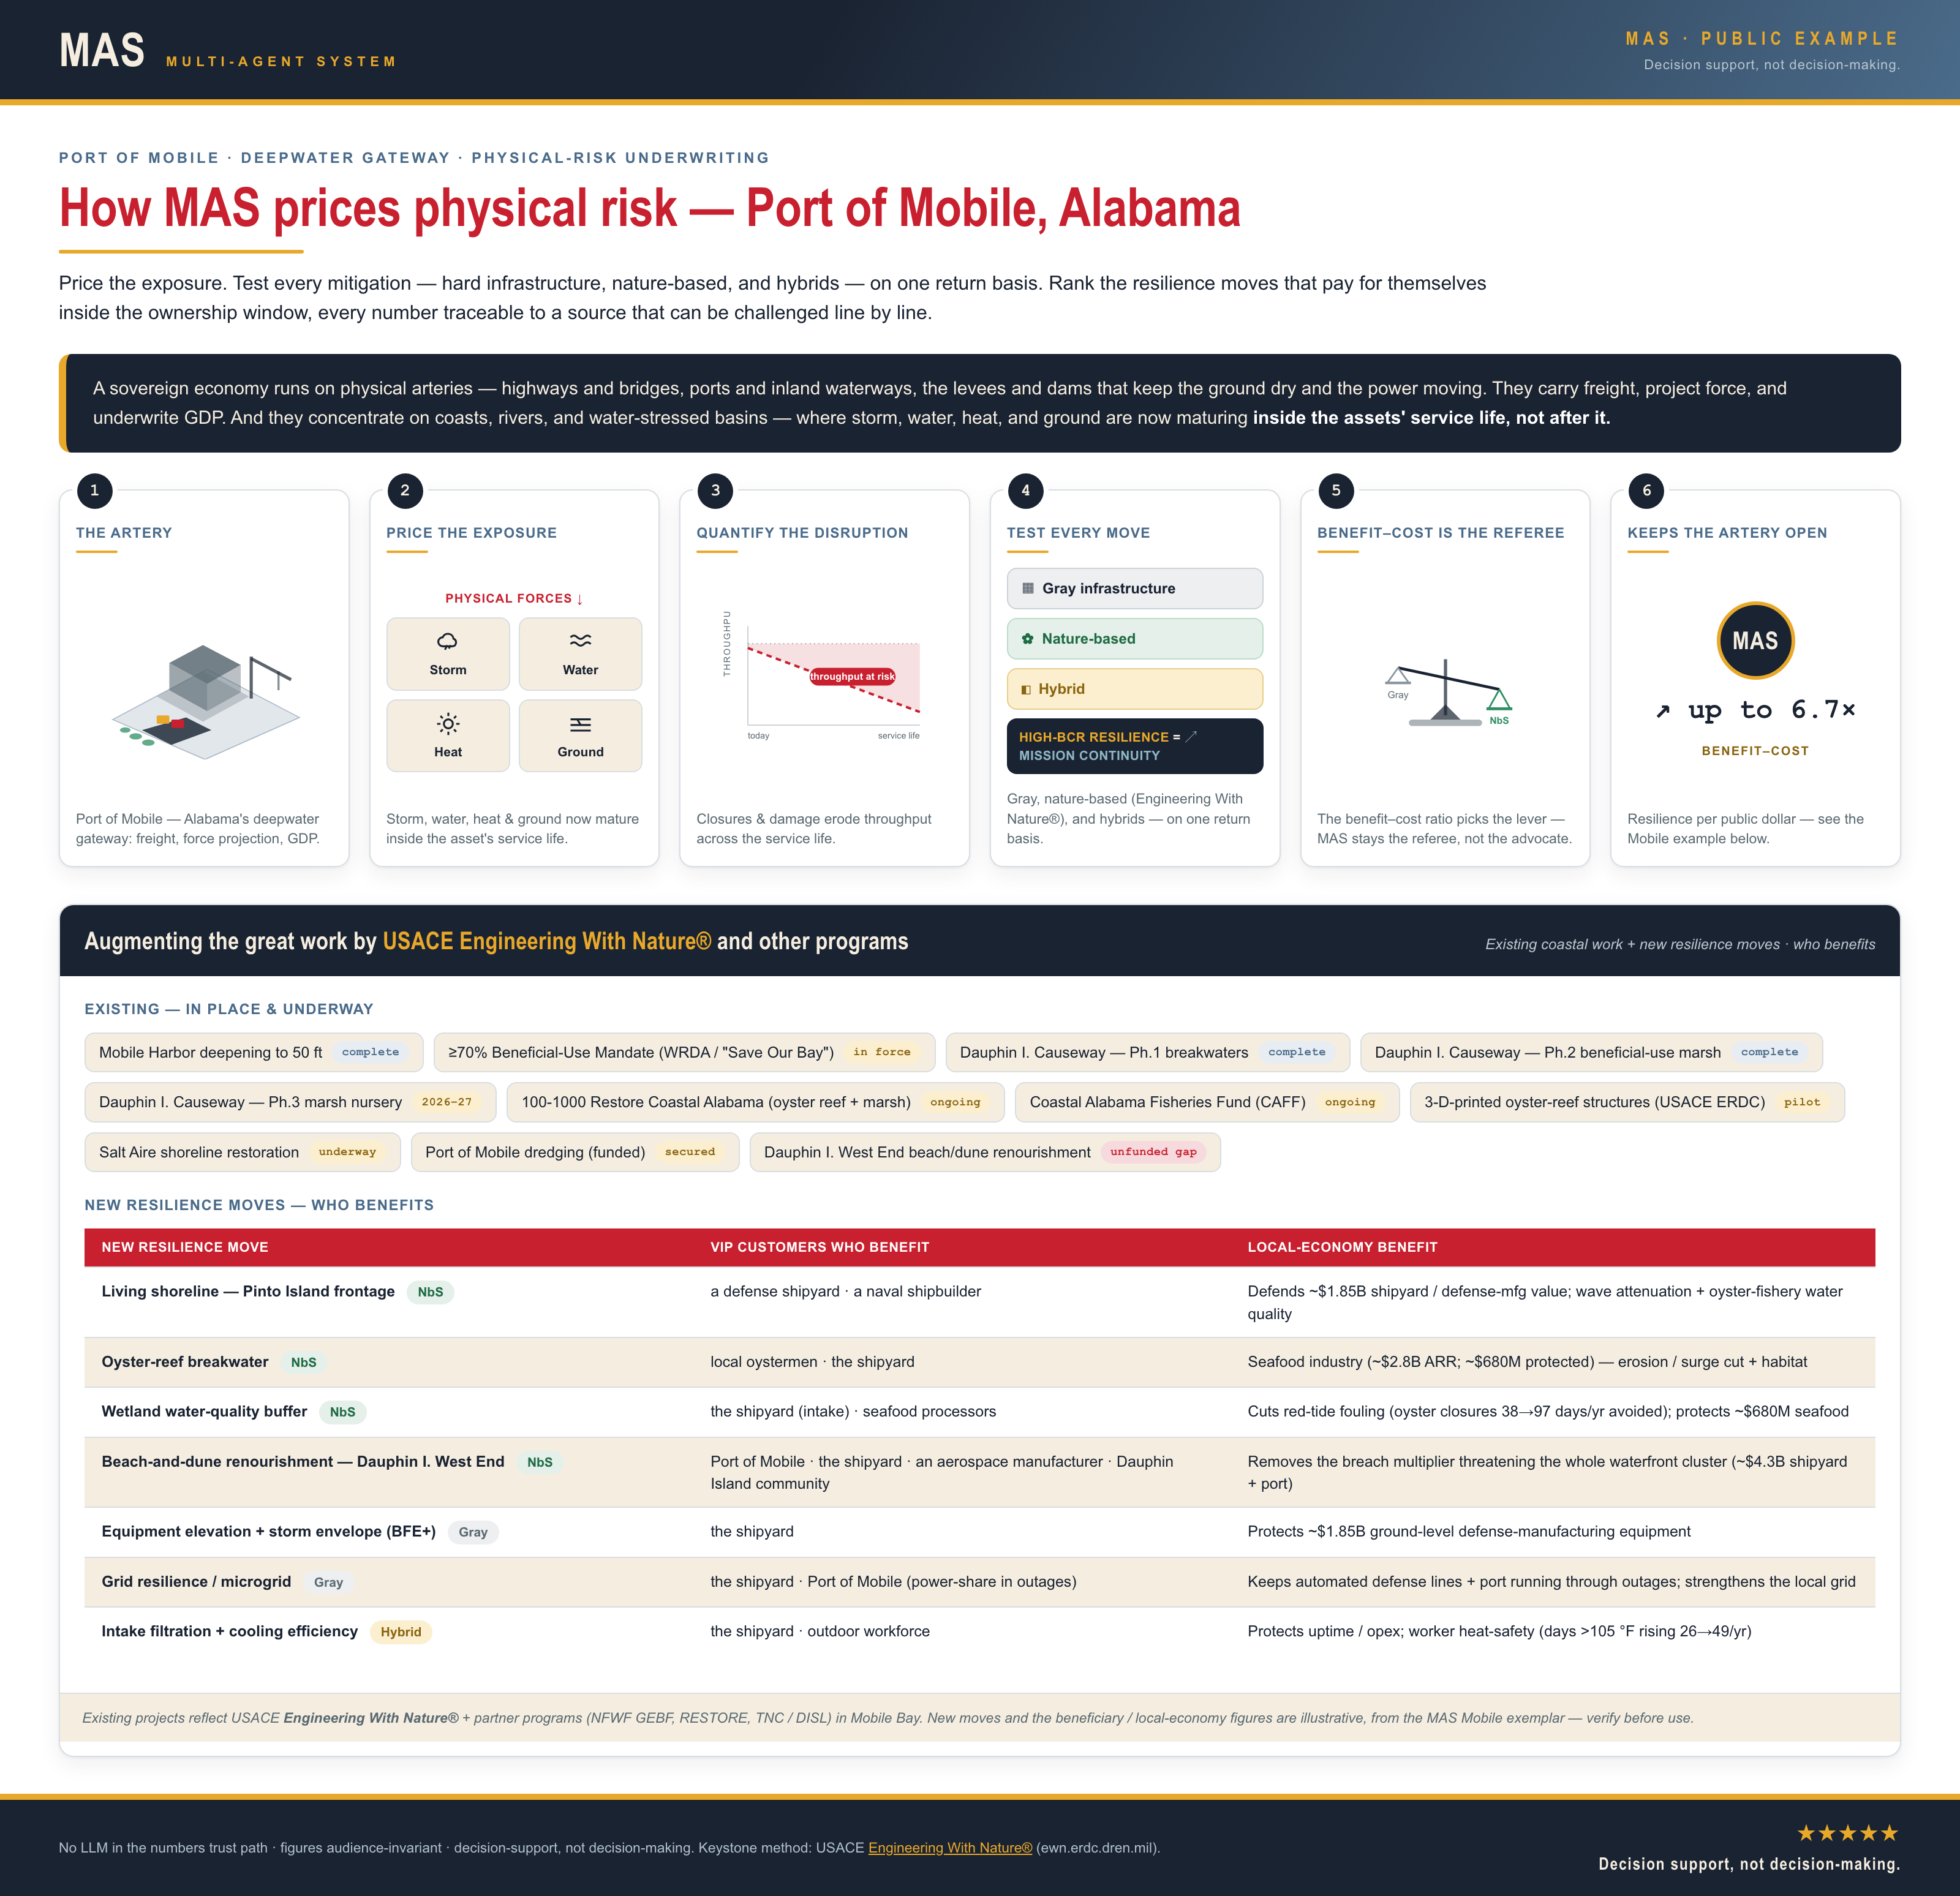
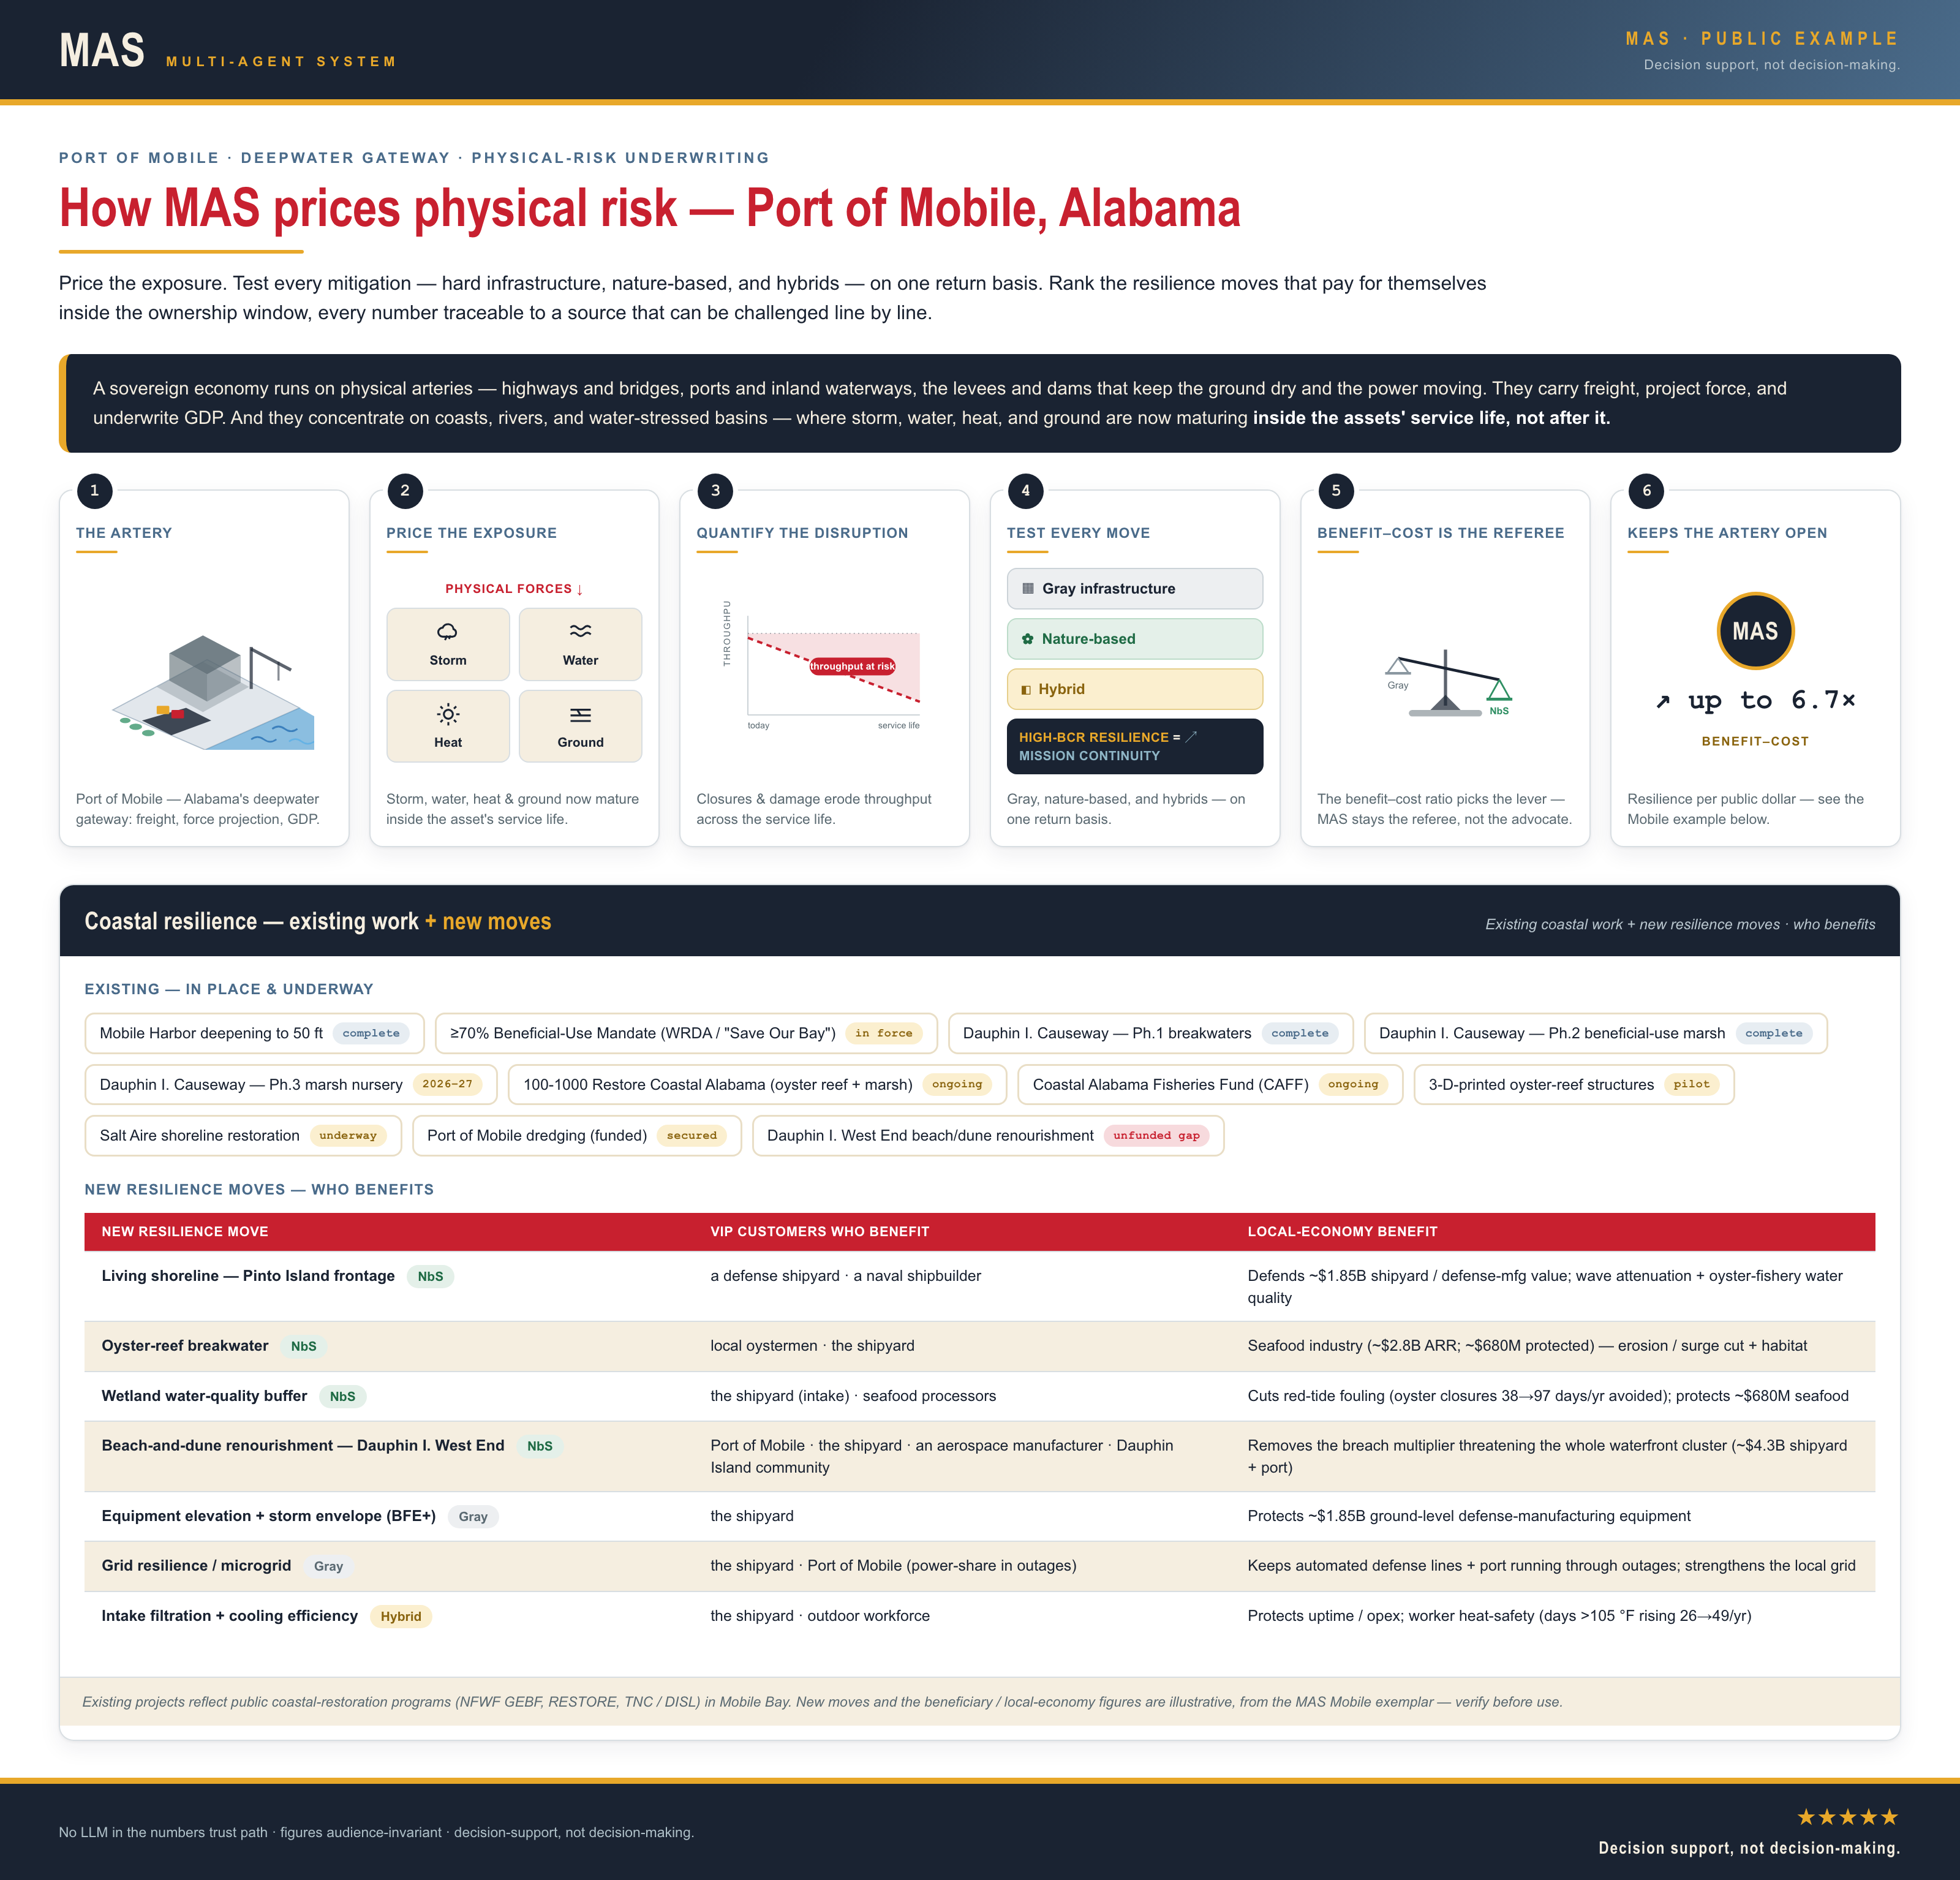
One-pager: remove USACE/EWN references, white chips w/ cream outline, harbor water in panel 1

diff --git a/examples/one_pager_port_of_mobile.html b/examples/one_pager_port_of_mobile.html
@@ -86,7 +86,7 @@
   .augbody{background:#fff;padding:18px 20px;display:grid;gap:18px}
   .existing h4,.newmoves h4{margin:0 0 10px;font-size:12px;font-weight:700;letter-spacing:.06em;text-transform:uppercase;color:var(--blue)}
   .exlist{list-style:none;margin:0;padding:0;display:flex;flex-wrap:wrap;gap:8px}
-  .exlist li{font-size:12.5px;color:var(--navy);background:var(--cream);border:1px solid var(--line);border-radius:8px;padding:6px 11px;display:flex;align-items:center;gap:8px}
+  .exlist li{font-size:12.5px;color:var(--navy);background:#fff;border:1.5px solid #E9DEC6;border-radius:8px;padding:6px 11px;display:flex;align-items:center;gap:8px}
   .st{font-family:var(--data);font-size:9.5px;font-weight:700;padding:2px 8px;border-radius:20px;letter-spacing:.02em;white-space:nowrap}
   .st.done{background:#E7EDF2;color:var(--blue)}
   .st.now{background:#FBEFCF;color:var(--gold-ink)}
@@ -144,6 +144,10 @@
         <svg viewBox="0 0 210 150" width="180" role="img" aria-label="Isometric port">
           <polygon points="18,112 108,64 196,110 106,150 18,112" fill="var(--teal)" opacity=".16"/>
           <polygon points="18,112 108,64 196,110 106,150 18,112" fill="none" stroke="var(--teal)" stroke-opacity=".4"/>
+          <polygon points="106,150 196,110 210,118 210,150" fill="#3E92CC" opacity=".6"/>
+          <path d="M150 140c4-3 8-3 12 0s8 3 12 0" stroke="#2E75B6" stroke-width="1.6" fill="none" opacity=".85"/>
+          <path d="M170 130c4-3 8-3 12 0s8 3 12 0" stroke="#2E75B6" stroke-width="1.6" fill="none" opacity=".85"/>
+          <path d="M186 142c4-3 8-3 12 0s8 3 12 0" stroke="#5FB0E5" stroke-width="1.4" fill="none" opacity=".9"/>
           <polygon points="60,90 104,66 148,90 104,114" fill="var(--muted)" opacity=".28"/>
           <polygon points="72,58 104,41 140,60 108,78" fill="var(--muted)" opacity=".85"/>
           <polygon points="72,58 108,78 108,104 72,84" fill="var(--muted)" opacity=".6"/>
@@ -222,7 +226,7 @@
           <div class="callout"><span class="go">HIGH-BCR RESILIENCE</span> = <span class="hi">↗ MISSION CONTINUITY</span></div>
         </div>
       </div>
-      <p class="cap">Gray, nature-based (Engineering With Nature®), and hybrids — on one return basis.</p>
+      <p class="cap">Gray, nature-based, and hybrids — on one return basis.</p>
     </div>
 
     <!-- 5 -->
@@ -264,7 +268,7 @@
   <!-- augmenting EWN -->
   <div class="payoff">
     <div class="payhead">
-      <h3>Augmenting the great work by <span class="g">USACE Engineering With Nature®</span> and other programs</h3>
+      <h3>Coastal resilience — existing work <span class="g">+ new moves</span></h3>
       <span class="meta">Existing coastal work + new resilience moves · who benefits</span>
     </div>
     <div class="augbody">
@@ -278,7 +282,7 @@
           <li>Dauphin I. Causeway — Ph.3 marsh nursery <span class="st now">2026–27</span></li>
           <li>100-1000 Restore Coastal Alabama (oyster reef + marsh) <span class="st now">ongoing</span></li>
           <li>Coastal Alabama Fisheries Fund (CAFF) <span class="st now">ongoing</span></li>
-          <li>3-D-printed oyster-reef structures (USACE ERDC) <span class="st now">pilot</span></li>
+          <li>3-D-printed oyster-reef structures <span class="st now">pilot</span></li>
           <li>Salt Aire shoreline restoration <span class="st now">underway</span></li>
           <li>Port of Mobile dredging (funded) <span class="st now">secured</span></li>
           <li>Dauphin I. West End beach/dune renourishment <span class="st gap">unfunded gap</span></li>
@@ -300,13 +304,13 @@
         </table>
       </div>
     </div>
-    <p class="paynote">Existing projects reflect USACE <strong>Engineering With Nature®</strong> + partner programs (NFWF GEBF, RESTORE, TNC / DISL) in Mobile Bay. New moves and the beneficiary / local-economy figures are illustrative, from the MAS Mobile exemplar — verify before use.</p>
+    <p class="paynote">Existing projects reflect public coastal-restoration programs (NFWF GEBF, RESTORE, TNC / DISL) in Mobile Bay. New moves and the beneficiary / local-economy figures are illustrative, from the MAS Mobile exemplar — verify before use.</p>
   </div>
 </div>
 
 <div class="botbar">
   <div class="disc">
-    No LLM in the numbers trust path · figures audience-invariant · decision-support, not decision-making. Keystone method: USACE <a href="https://ewn.erdc.dren.mil/">Engineering With Nature®</a> (ewn.erdc.dren.mil).
+    No LLM in the numbers trust path · figures audience-invariant · decision-support, not decision-making.
   </div>
   <div class="right">
     <div class="stars">★★★★★</div>